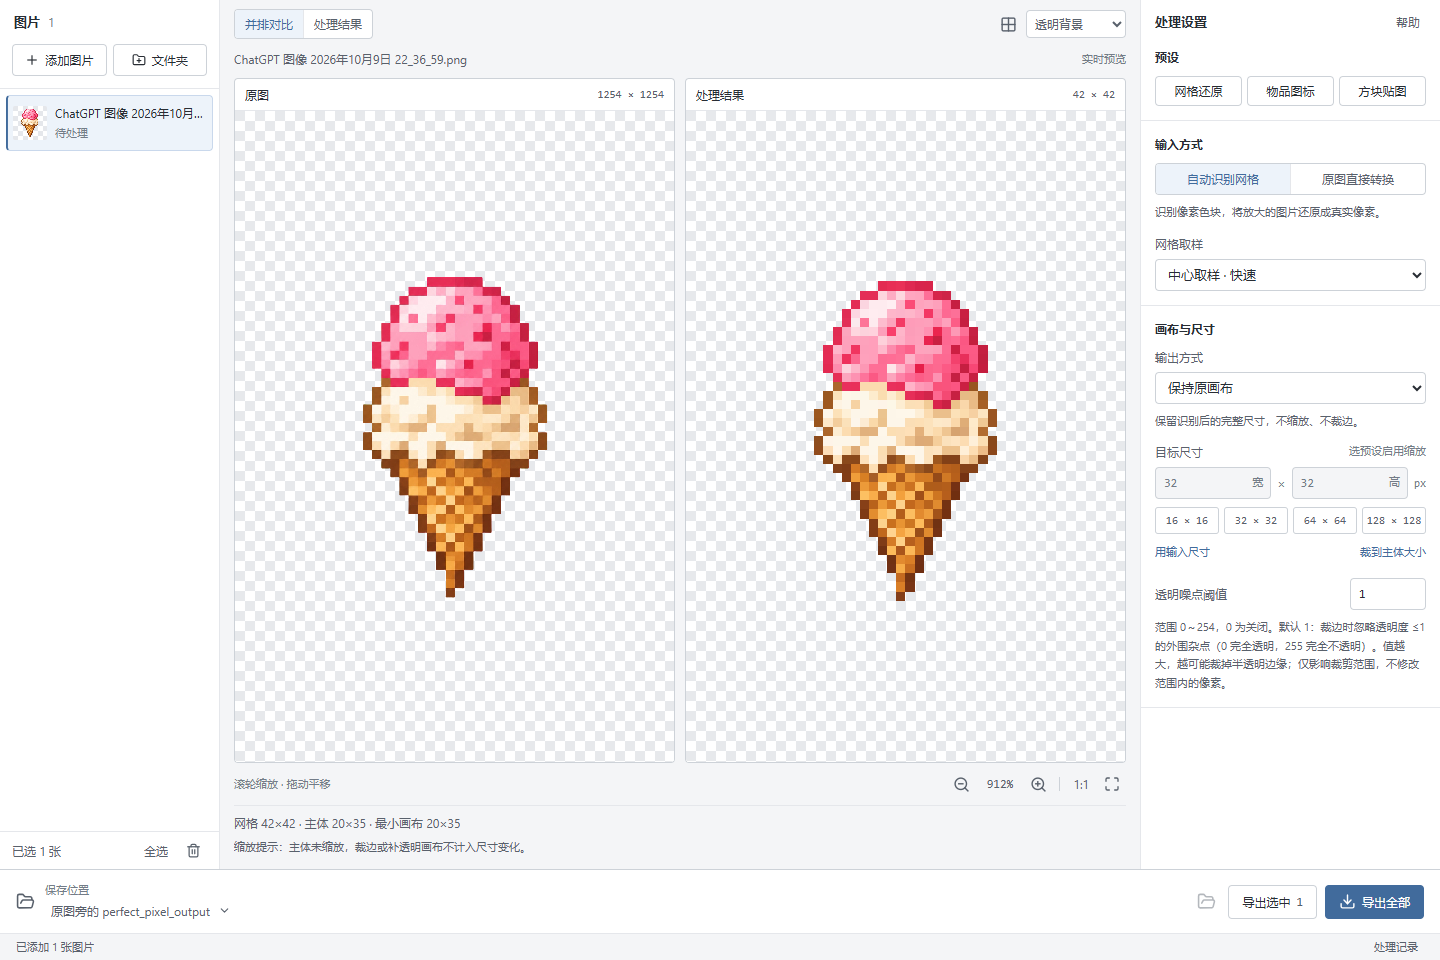
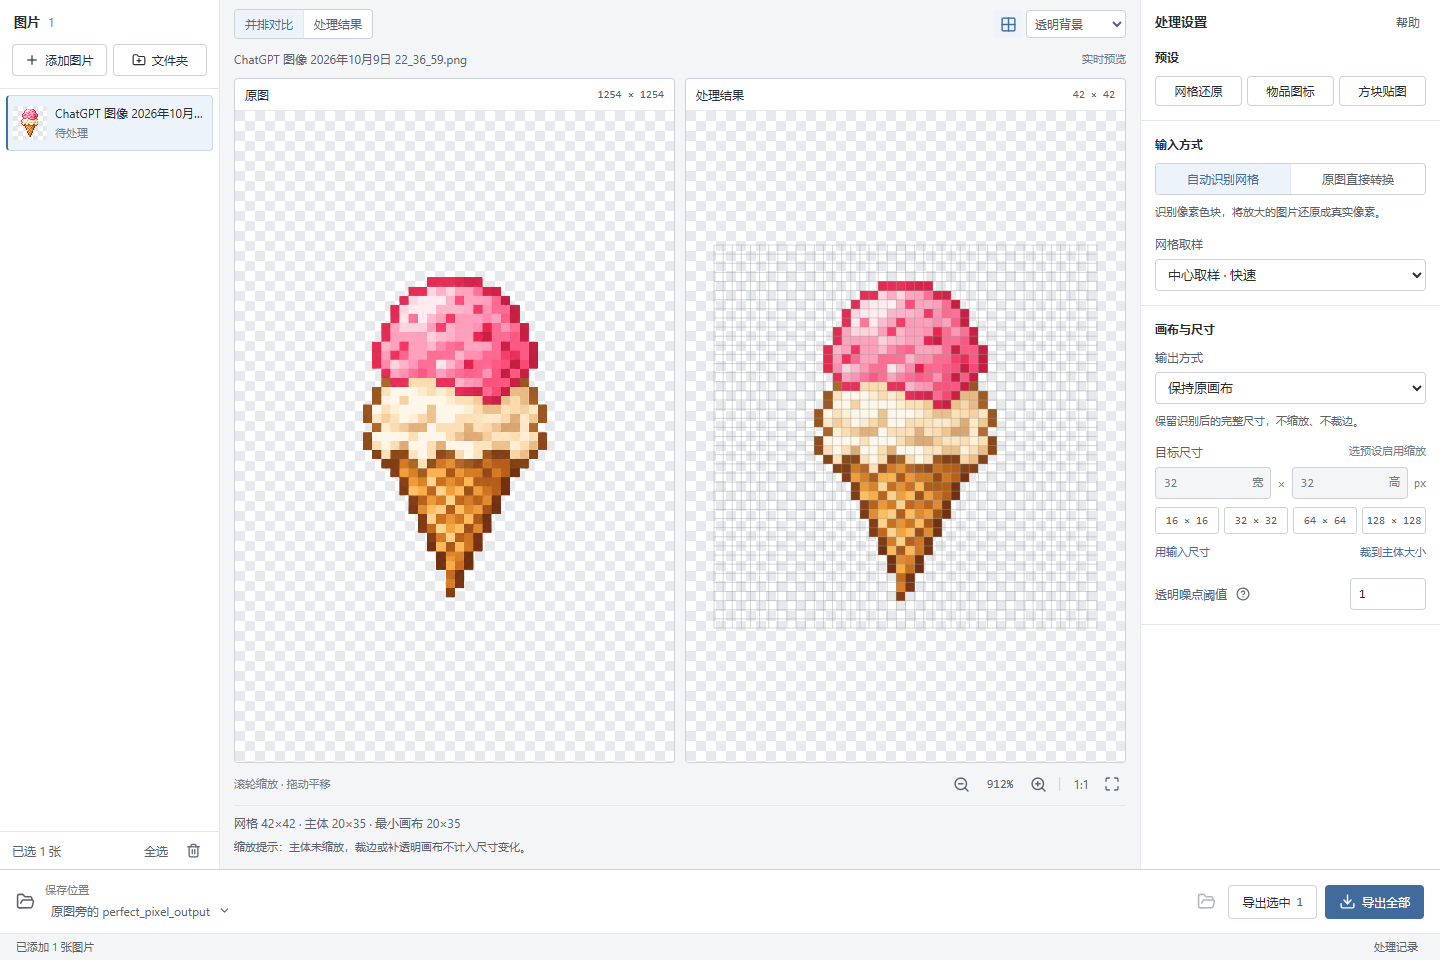
将透明阈值说明改为悬浮提示并默认开启网格

Changed region(s): [[0.5, 0.25, 0.75, 0.6562], [0.7812, 0.625, 1.0, 0.7188]]

diff --git a/frontend/src/App.vue b/frontend/src/App.vue
@@ -2,7 +2,7 @@
 import { computed, onBeforeUnmount, onMounted, reactive, ref, watch } from 'vue'
 import { Plus, FolderPlus, FolderOpen, ChevronDown, X,
   Grid2X2, ZoomIn, ZoomOut, Maximize, Download,
-  Trash2, LoaderCircle, CheckCircle2, CircleAlert } from 'lucide-vue-next'
+  Trash2, LoaderCircle, CheckCircle2, CircleAlert, CircleHelp } from 'lucide-vue-next'
 import PreviewCanvas from './PreviewCanvas.vue'
 import FileThumbnail from './FileThumbnail.vue'
 import { nextSelection, optionPayload, statusLabels, waitForBridge } from './bridge'
@@ -14,7 +14,7 @@ const revision = ref(-1), busy = ref(false), cancelling = ref(false), closing = 
 const status = ref('连接桌面应用…'), progress = ref({ done: 0, total: 0 }), details = ref([])
 const outputDir = ref(''), error = ref(''), showLog = ref(false), showHelp = ref(false)
 const pending = ref(false), preview = ref(null), previewError = ref('')
-const compare = ref(true), grid = ref(false), background = ref('checker')
+const compare = ref(true), grid = ref(true), background = ref('checker')
 const camera = ref({ actual: false, factor: 1, x: 0, y: 0 }), outputScale = ref(1)
 const options = reactive({ direct: false, method: 'center', layout: 'original', width: 32,
   height: 32, resample: 'pixel', palette_size: 32, detail: 1, alpha_threshold: 1 })
@@ -200,7 +200,16 @@ onBeforeUnmount(() => {
           </section>
           <section class="setting-section"><div class="section-heading">画布与尺寸</div><label class="field-label" for="layout">输出方式</label><select id="layout" v-model="options.layout"><option value="original">保持原画布</option><option value="fit">主体等比例缩放</option><option value="canvas_fit">整图等比例缩放</option><option value="keep">主体不缩放 · 改画布</option></select><p class="help-text">{{ layoutHelp }}</p>
             <label class="field-label">目标尺寸 <span v-if="options.layout === 'original'">选预设启用缩放</span></label><div class="dimension-inputs"><label><input v-model.number="options.width" type="number" min="1" :max="options.layout === 'keep' ? 8192 : 1024" aria-label="画布宽度" :disabled="options.layout === 'original'"/><span>宽</span></label><span>×</span><label><input v-model.number="options.height" type="number" min="1" :max="options.layout === 'keep' ? 8192 : 1024" aria-label="画布高度" :disabled="options.layout === 'original'"/><span>高</span></label><small>px</small></div><div class="size-presets"><button v-for="size in [16, 32, 64, 128]" :key="size" :class="{ chosen: options.layout !== 'original' && options.width === size && options.height === size }" @click="setSize(size)">{{ size }} × {{ size }}</button></div><div class="dimension-actions"><button :disabled="!preview?.info?.grid || pending" @click="useDimensions(false)">用输入尺寸</button><button :disabled="!preview?.info?.subject || pending" @click="useDimensions(true)">裁到主体大小</button></div>
-            <label class="threshold-field" for="alpha-threshold">透明噪点阈值<input id="alpha-threshold" v-model.number="options.alpha_threshold" type="number" min="0" max="254" aria-describedby="alpha-threshold-help"/></label><p id="alpha-threshold-help" class="help-text">范围 0～254，0 为关闭。默认 1：裁边时忽略透明度 ≤1 的外围杂点（0 完全透明，255 完全不透明）。值越大，越可能裁掉半透明边缘；仅影响裁剪范围，不修改范围内的像素。</p>
+            <div class="threshold-field">
+              <div class="threshold-label">
+                <label for="alpha-threshold">透明噪点阈值</label>
+                <span class="field-help">
+                  <button type="button" class="help-button" aria-label="透明噪点阈值说明" aria-describedby="alpha-threshold-help"><CircleHelp :size="14"/></button>
+                  <span id="alpha-threshold-help" class="field-tooltip" role="tooltip">范围 0～254，0 为关闭。默认 1：裁边时忽略透明度 ≤1 的外围杂点（0 完全透明，255 完全不透明）。值越大，越可能裁掉半透明边缘；仅影响裁剪范围，不修改范围内的像素。</span>
+                </span>
+              </div>
+              <input id="alpha-threshold" v-model.number="options.alpha_threshold" type="number" min="0" max="254" aria-describedby="alpha-threshold-help"/>
+            </div>
           </section>
           <section v-if="resize" class="setting-section"><div class="section-heading">缩放算法</div><select v-model="options.resample" aria-label="缩放算法"><option value="pixel">目标像素 · 结构保护</option><option value="nearest">像素硬边 · 最近邻</option><option value="k-centroid">k-centroid · 局部主色</option></select><p class="help-text">{{ algorithmHelp }}</p><div v-if="options.resample === 'pixel'" class="paired-fields"><label>目标颜色<select v-model.number="options.palette_size"><option :value="0">保留颜色</option><option v-for="n in [8, 16, 32, 64]" :key="n" :value="n">{{ n }} 色</option></select></label><label>细节保护<select v-model.number="options.detail"><option :value="0">关闭</option><option :value="1">适中</option><option :value="2">较强</option></select></label></div></section>
         </fieldset>

diff --git a/frontend/src/style.css b/frontend/src/style.css
@@ -115,8 +115,14 @@ input:disabled, select:disabled { color: var(--faint); background: var(--base); 
 .paired-fields { display: flex; gap: 8px; margin-top: 12px; }
 .paired-fields label { flex: 1; color: var(--muted); font-size: 12px; min-width: 0; }
 .paired-fields select { margin-top: 5px; }
-.threshold-field { display: flex; align-items: center; justify-content: space-between; gap: 8px; margin-top: 14px; font-size: 12px; color: var(--muted); }
+.threshold-field { position: relative; display: flex; align-items: center; justify-content: space-between; gap: 8px; margin-top: 14px; font-size: 12px; color: var(--muted); }
 .threshold-field input { width: 76px; flex-shrink: 0; font-family: Consolas, monospace; }
+.threshold-label { display: flex; align-items: center; gap: 4px; }
+.field-help { display: inline-flex; }
+.help-button { display: inline-flex; align-items: center; justify-content: center; width: 24px; height: 28px; padding: 0; color: var(--muted); border-radius: 4px; }
+.help-button:hover { color: var(--accent); }
+.field-tooltip { position: absolute; bottom: 100%; left: 0; z-index: 2; width: 100%; padding: 10px 12px; border: 1px solid var(--border-strong); border-radius: 4px; background: var(--panel); color: var(--text); font-size: 11px; line-height: 1.7; box-shadow: 0 2px 8px #0002; visibility: hidden; }
+.field-help:hover .field-tooltip, .field-help:focus-within .field-tooltip { visibility: visible; }
 .export-bar { min-height: 64px; padding: 10px 16px; flex-shrink: 0; display: flex; align-items: center; justify-content: space-between; gap: 16px; border-top: 1px solid var(--border-strong); background: var(--panel); }
 .export-destination { display: flex; align-items: center; gap: 10px; color: var(--muted); min-width: 0; }
 .export-destination > div { min-width: 0; }
